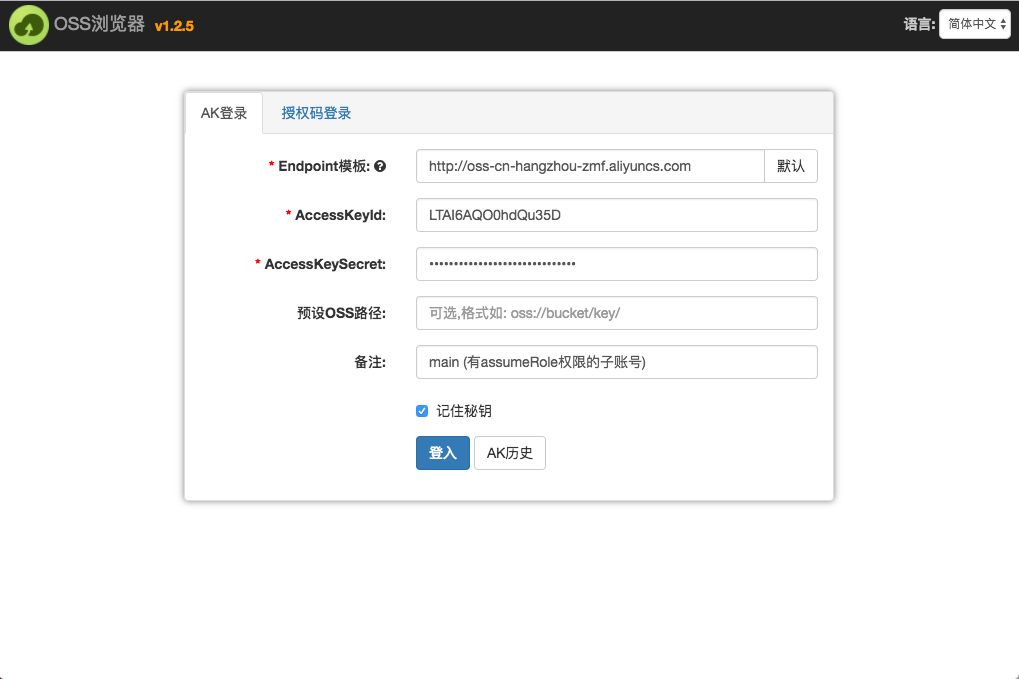
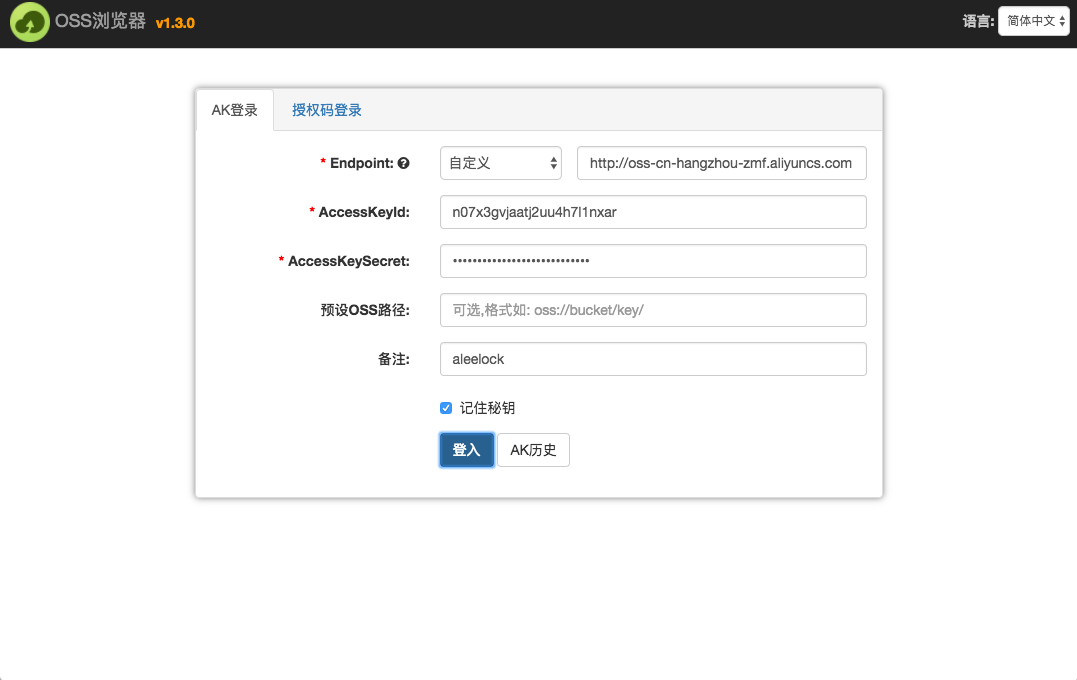
优化登录框

diff --git a/app/main/auth/login.html b/app/main/auth/login.html
@@ -35,33 +35,28 @@
             <div class="panel-body">
 
                 <form ng-if="gtab==1" class="form-horizontal" name="form1" ng-submit="onSubmit(form1)">
-                   <div class="form-group has-feedback" ng-class="{'has-error':!form1.endpoint.$valid}">
+                   <div class="form-group">
                       <label for="endpoint" class="col-sm-4 control-label"><span class="red">*</span> Endpoint:
                         <span uib-popover-template="'auth-endpoint-popup.html'"
                         popover-trigger="'mouseenter'" popover-append-to-body="true">
                           <i class="fa fa-question-circle"></i>
                         </span>
                       </label>
-                      <div class="col-sm-8">
-                        
+                      <div class="col-sm-8" style="padding:0">
 
-                        <div class="input-group">
-                          <div class="input-group-btn">
-                            <button type="button" class="btn btn-default dropdown-toggle" data-toggle="dropdown" 
-                            aria-haspopup="true" aria-expanded="false"  
-                            >{{eptplType|translate}} <span class="caret"></span></button>
-                            <ul class="dropdown-menu">
-                              <li><a href="" ng-click="eptplChange('default')">{{'default'|translate}}</a></li>
-                              <li><a href="" ng-click="eptplChange('customize')">{{'customize'|translate}}</a></li> 
-                            </ul>
-                          </div><!-- /btn-group -->
-                            
-                          <input type="text" required ng-disabled="eptplType=='default'" ng-model="item.eptpl" ng-pattern="/^http(s)?\:\/\//"
-                           class="form-control" id="endpoint" name="endpoint" placeholder="http://">
-                          <!-- <span class="input-group-btn"> 
-                            <a href="" ng-click="item.eptpl='https://{region}.aliyuncs.com'" class="btn btn-default">{{'default'|translate}}</a>
-                          </span> -->
+                        <div ng-class="{'col-sm-12':eptplType=='default','col-sm-4':eptplType=='customize'}">
+                          <select class="form-control" ng-model="eptplType" ng-change="eptplChange(eptplType)">
+                            <option value="default">{{'default'|translate}} ({{'public.cloud'|translate}})</option>
+                            <option value="customize">{{'customize'|translate}}</option>
+                          </select>
                         </div>
+                        <div class="col-sm-8" style="padding-left:0" ng-if="eptplType=='customize'"
+                        ng-class="{'has-error':!form1.endpoint.$valid}">
+                            <input type="text" required ng-model="item.eptpl" ng-pattern="/^http(s)?\:\/\//"
+                            class="form-control" id="endpoint" name="endpoint" placeholder="http://">
+                        </div>
+
+        
                       </div>
                    </div>
                     <div class="form-group has-feedback" ng-class="{'has-error': !form1.aid.$valid }">

diff --git a/app/index.html b/app/index.html
@@ -1,20 +1,10 @@
 <!DOCTYPE html>
 <html ng-app="web" ng-controller="mainCtrl">
   <head>
-    
     <meta charset="utf-8">
     <meta name="viewport" content="initial-scale=1, maximum-scale=1, user-scalable=no, width=device-width">
-    <title></title>
-    <script>
-      var custom = {};
-      try{
-        custom = require('./custom');
-      }catch(e){
-
-      }
-      document.title=custom.title||'OSS Browser';
-    </script>
-    <!-- <link href="icons/icon.ico" rel="shortcut icon"/> -->
+    <title>OSS Browser</title>
+    <link href="icons/icon.ico" rel="shortcut icon"/>
     <link href="css/lib.css" rel="stylesheet">
     <link href="app.css" rel="stylesheet">
   </head>
@@ -70,34 +60,15 @@
       //   return false;
       // };
 
-
       var Global = {
         //ossEndpointProtocol:'https:',
         app: {
-          id: custom.appId || pkg.name,
-          logo: custom.logo_png || 'icons/icon.png', //logo
-          //name: custom.appName || 'OSS Browser', //标题显示
-          version: custom.version || pkg.version //自定义版本号
+          logo: 'icons/icon.png', //logo
+          //name: 'OSS Browser', //标题显示
+          version: pkg.version //自定义版本号
         },
-        i18n: require('./node/i18n'),
-        release_notes_url: custom.release_notes_url || "https://raw.githubusercontent.com/aliyun/oss-browser/master/release-notes/", 
-        upgrade_url: custom.upgrade_url || "https://raw.githubusercontent.com/aliyun/oss-browser/master/upgrade.json",//升级描述路径
-        about_html: custom.about_html
+        i18n: require('./node/i18n')
       };
- 
-      (function(){
-     
-        if(custom.appName){
-          for(var k in custom.appName){
-            if(Global.i18n[k])
-               Global.i18n[k].content['app.name']=custom.appName[k];
-          }
-        }
-        
-      })();
-      //fix
-      if(localStorage.getItem('lang')=='zn-CN')localStorage.setItem('lang', 'zh-CN');
-
       $(function(){
         $(document).on('dragover', function(ev){
           ev.preventDefault();

diff --git a/main.js b/main.js
@@ -32,14 +32,6 @@ ipcMain.on('asynchronous-message', (event, arg) => {
 });
 ///*****************************************
 
-//自定义
-var custom = {};
-try{
-  custom = require('./custom');
-}catch(e){
-  console.log('没有自定义配置');
-}
-
 //let logo = nativeImage.createFromPath('icons/logo.ico');
 
 // Keep a global reference of the window object, if you don't, the window will
@@ -47,7 +39,7 @@ try{
 let win;
 
 if (process.platform == 'darwin') {
-  app.dock.setIcon(custom.icon_png || path.join(__dirname, 'icons', 'icon.png'));
+  app.dock.setIcon(path.join(__dirname, 'icons', 'icon.png'));
 }
 
 function createWindow() {
@@ -56,17 +48,17 @@ function createWindow() {
     height: 700,
     minWidth: 1020,
     minHeight: 660,
-    title: custom.title || "OSS Browser",
-    icon: custom.icon_ico || path.join(__dirname, 'icons', 'icon.ico')
+    title: "OSS Browser",
+    icon: path.join(__dirname, 'icons', 'icon.ico')
   };
 
   if(process.platform=='linux'){
-    opt.icon = custom.icon_png || path.join(__dirname, 'icons', 'icon.png');
+    opt.icon = path.join(__dirname, 'icons', 'icon.png');
   }
   // Create the browser window.   http://electron.atom.io/docs/api/browser-window/
   win = new BrowserWindow(opt);
 
-  win.setTitle(custom.title || "OSS Browser");
+  win.setTitle("OSS Browser");
 
   // and load the index.html of the app.
   win.loadURL(`file://${__dirname}/index.html`);

diff --git a/gulpfile.js b/gulpfile.js
@@ -142,11 +142,6 @@ gulp.task('copy-static', function () {
     .pipe(gulp.dest(DIST+'/static'));
 });
 
-gulp.task('copy-custom', function () {
-  gulp.src(['./custom/**/*'])
-    .pipe(gulp.dest(DIST+'/custom'));
-});
-
 gulp.task('copy-index', function () {
   gulp.src(['./app/index.html',
   './main.js',
@@ -199,8 +194,6 @@ gulp.task('watch', function () {
   gulp.watch(['./app/index.html','./main.js'], ['copy-index']);
 
   gulp.watch(['./static/**'], ['copy-static']);
-  
-  gulp.watch(['./custom/**'], ['copy-custom']);
 
   gulp.watch('./node/**', ['copy-node']);
 
@@ -212,6 +205,6 @@ gulp.task('watch', function () {
 //   livereload: true
 // }));
 
-gulp.task('build', ['js', 'templates', 'css', 'copy-index', 'libJS', 'libCSS', 'copy-fonts','copy-node','copy-docs','copy-icons','copy-custom','copy-static','gen-package']);
+gulp.task('build', ['js', 'templates', 'css', 'copy-index', 'libJS', 'libCSS', 'copy-fonts','copy-node','copy-docs','copy-icons','copy-static','gen-package']);
 
 gulp.task('default', [  'build', 'watch']);

diff --git a/node/i18n/en-US.js b/node/i18n/en-US.js
@@ -4,7 +4,7 @@ module.exports = {
   'name': 'Name',
   'type': 'Type',
   'customize': 'Customize',
-  'use.default': 'Use Default',
+  'public.cloud': 'Public Cloud',  
 
   'region.oss-cn-hangzhou': 'East China 1(Hangzhou)',
   'region.oss-cn-shanghai': 'East China 2(Shanghai)',

diff --git a/node/i18n/zh-CN.js b/node/i18n/zh-CN.js
@@ -4,7 +4,7 @@ module.exports = {
   'name': "名称",
   'type': '类型',
   'customize': '自定义',
-  'use.default': '使用默认',
+  'public.cloud': '公有云',
 
   'region.oss-cn-hangzhou': '华东1(杭州)',
   'region.oss-cn-shanghai': '华东2(上海)',

diff --git a/all-releases.md b/all-releases.md
@@ -2,6 +2,7 @@ All Releases for [ OSS Browser ]
 
   ||Windows ia32|Windows x64| Mac |Linux x64|
   |-----|-----|-----|---------|--------|
+|1.3.0|[Download](https://luogc.oss-cn-hangzhou.aliyuncs.com/oss-browser-publish/1.3.0/oss-browser-win32-ia32.zip) |[Download](https://luogc.oss-cn-hangzhou.aliyuncs.com/oss-browser-publish/1.3.0/oss-browser-win32-x64.zip) | [Download](https://luogc.oss-cn-hangzhou.aliyuncs.com/oss-browser-publish/1.3.0/oss-browser.dmg) | [Download](https://luogc.oss-cn-hangzhou.aliyuncs.com/oss-browser-publish/1.3.0/oss-browser-linux-x64.zip) |
 |1.2.5|[Download](https://luogc.oss-cn-hangzhou.aliyuncs.com/oss-browser-publish/1.2.5/oss-browser-win32-ia32.zip) |[Download](https://luogc.oss-cn-hangzhou.aliyuncs.com/oss-browser-publish/1.2.5/oss-browser-win32-x64.zip) | [Download](https://luogc.oss-cn-hangzhou.aliyuncs.com/oss-browser-publish/1.2.5/oss-browser.dmg) | [Download](https://luogc.oss-cn-hangzhou.aliyuncs.com/oss-browser-publish/1.2.5/oss-browser-linux-x64.zip) |
 |1.2.4||[Download](https://luogc.oss-cn-hangzhou.aliyuncs.com/oss-browser-publish/1.2.4/oss-browser-win32-x64.zip) | [Download](https://luogc.oss-cn-hangzhou.aliyuncs.com/oss-browser-publish/1.2.4/oss-browser.dmg) | [Download](https://luogc.oss-cn-hangzhou.aliyuncs.com/oss-browser-publish/1.2.4/oss-browser-linux-x64.zip) |
 |1.2.3||[Download](https://luogc.oss-cn-hangzhou.aliyuncs.com/oss-browser-publish/1.2.3/oss-browser-win32-x64.zip) | [Download](https://luogc.oss-cn-hangzhou.aliyuncs.com/oss-browser-publish/1.2.3/oss-browser.dmg) | [Download](https://luogc.oss-cn-hangzhou.aliyuncs.com/oss-browser-publish/1.2.3/oss-browser-linux-x64.zip) |

diff --git a/release-notes/1.3.0.md b/release-notes/1.3.0.md
@@ -1,0 +1,3 @@
+
+1. 优化登录表单中Endpoint输入框的交互。
+2. 支持定制。
